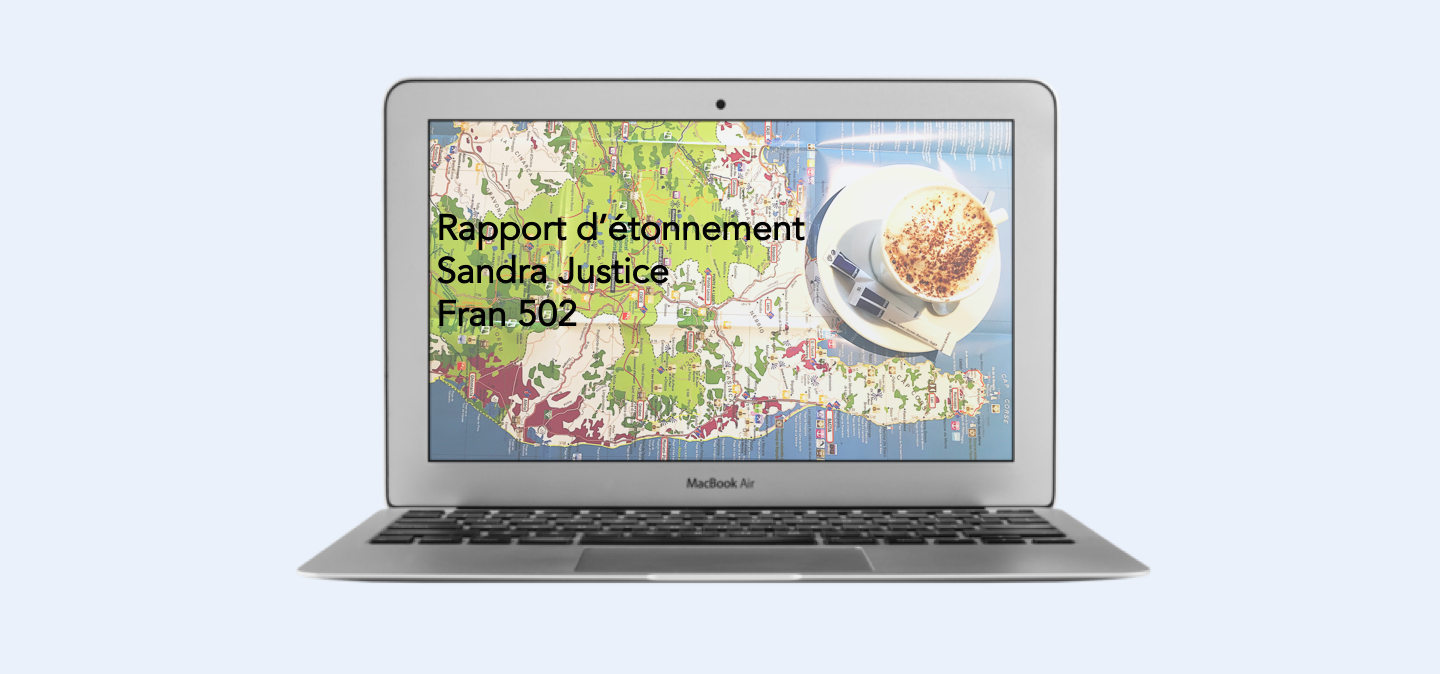
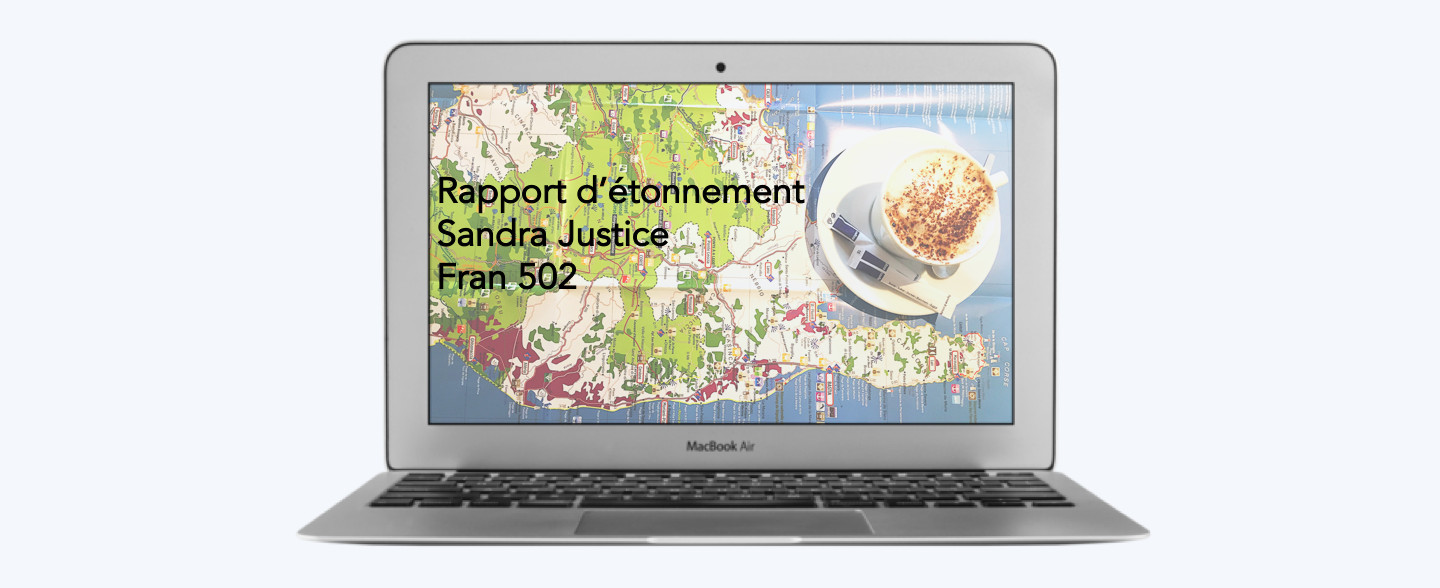
image

Changed region(s): [[0.1875, 0.0612, 0.8125, 0.949]]

diff --git a/views/sandra.html b/views/sandra.html
@@ -9,7 +9,7 @@
         <p class="sandrasous-titre">Rapport d'étonnement</p>
       </div>
       <div class="sandramain-content">
-        <p style="text-align:center;"> <img src="/projet/styling/img/s_img/computer.png" width="100%" height="auto"> </p>
+          <hr class="style11"><p style="text-align:center;"> <img src="/projet/styling/img/s_img/computer.png" width="100%" height="auto"></p><hr class="style11">
 <p><h2> Introduction </h2></<p>
   <p> Bonjour ! 🙋🏻 Je m’appelle Sandra Justice et je suis étudiante à la maîtrise dans <a href="https://www.uvic.ca/humanities/french/index.php">le département de français</a> à l’université de Victoria. Je me suis inscrite au cours Fran 502 (<i><a href="https://www.uvic.ca/humanities/french/graduate/courses/502-syllabus-201901.pdf">Apprentissage et enseignement du français en contexte numérique</i></a>) parce que je suis (et serai toujours) une apprenante du français 👩🏻💻 et je m'intéresse à l'enseignement du français 👩🏻🏫. Je m'attendais à la découverte d'une variété de façons d'incorporer la technologie dans la salle de classe pour faciliter l'apprentissage. Maintenant, je suis presque à la fin du cours et non seulement j'ai gagné de nouvelles perspectives, mais aussi j'ai développé de nouvelles compétences. Les billets qui suivent vous donneront un aperçu de mon processus d’apprentissage dans ce cours.</p>
     <p><p/>
